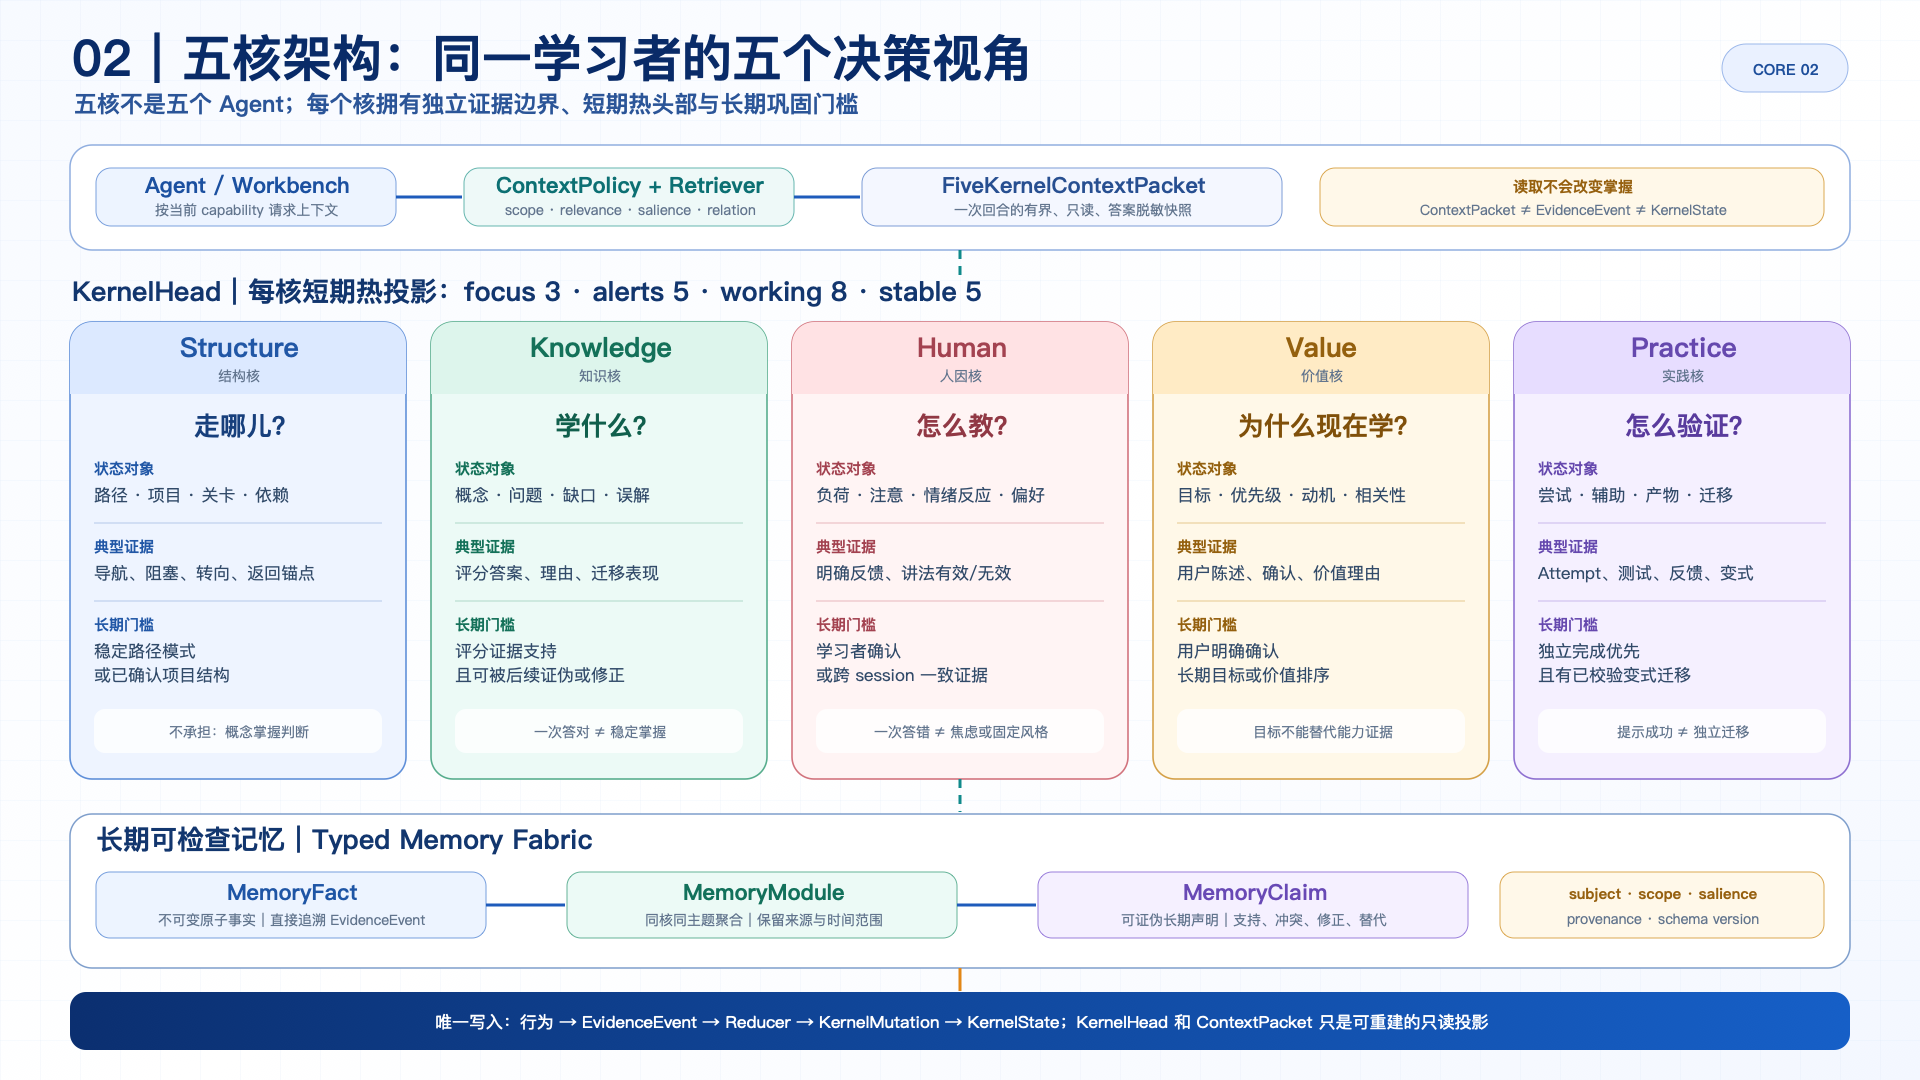
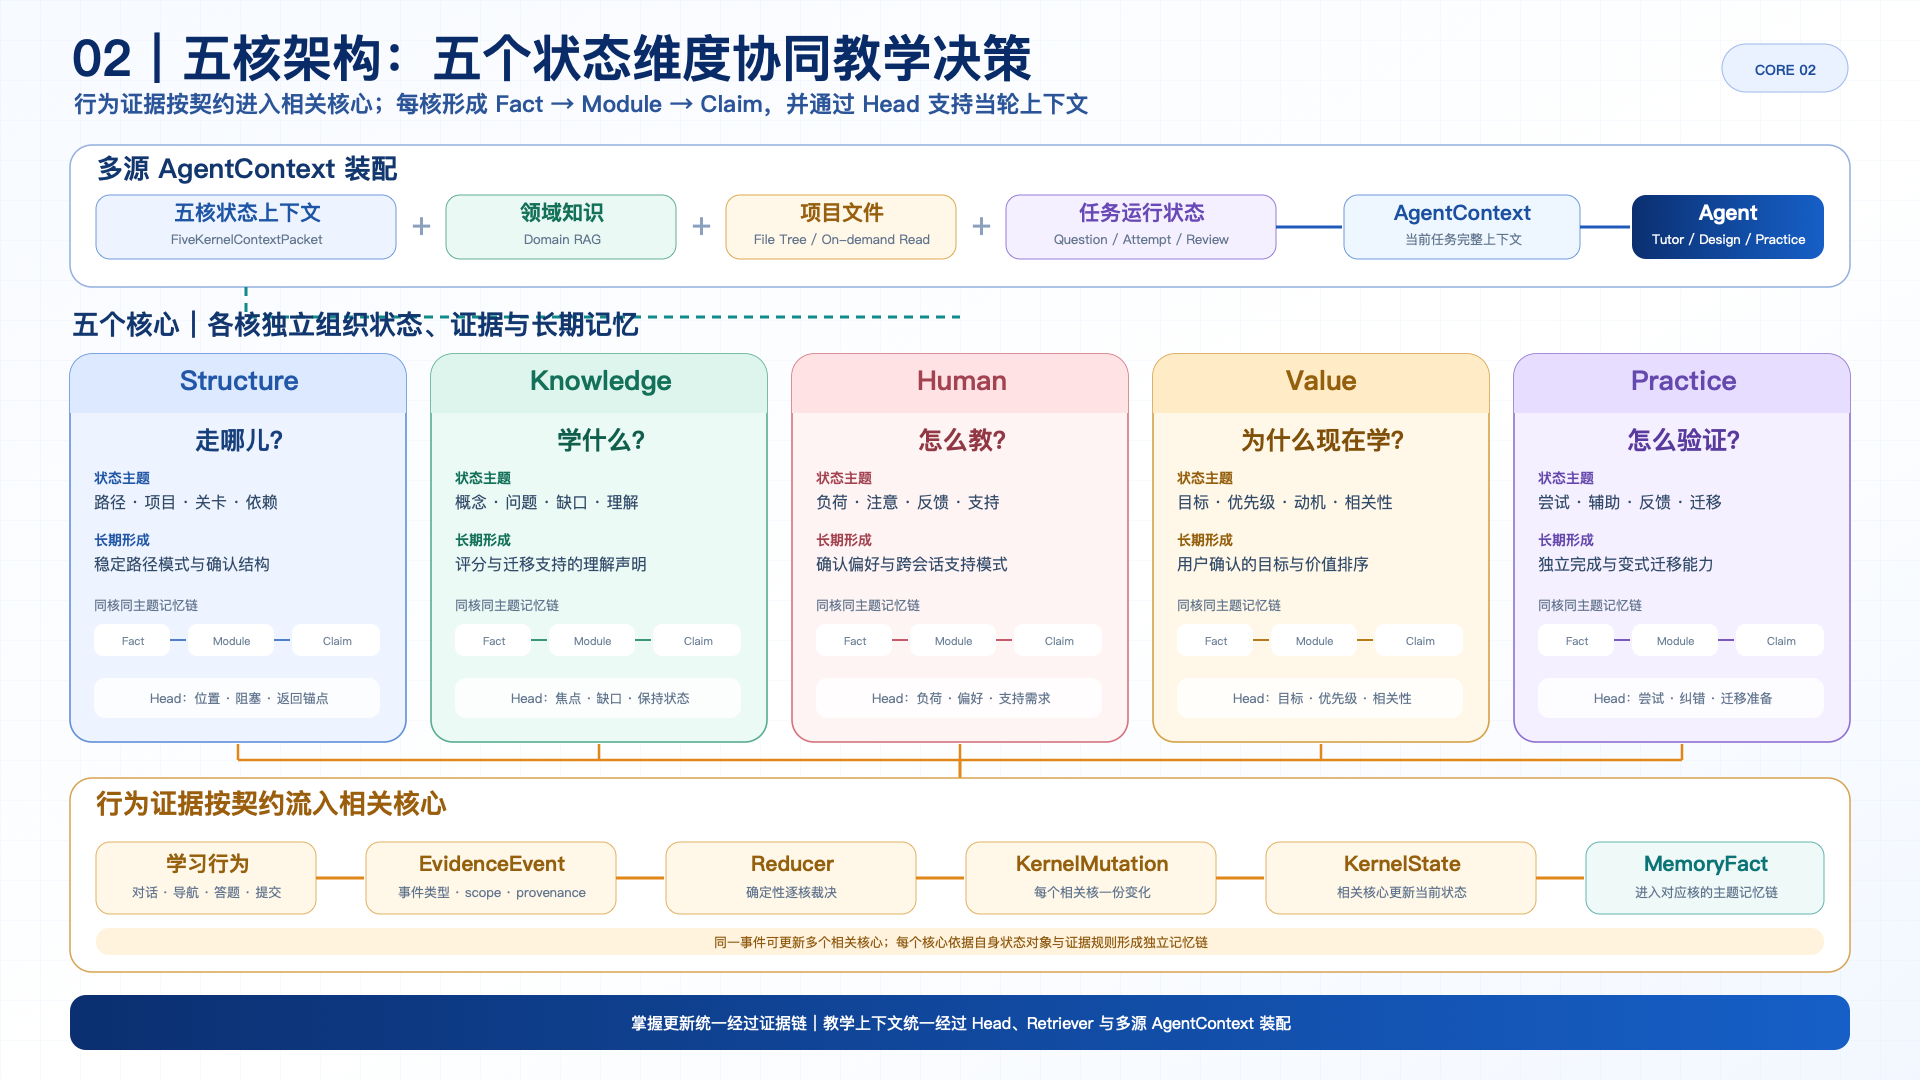
docs: clarify five-kernel reporting diagrams

diff --git a/docs/REPORTING_FIGURES.md b/docs/REPORTING_FIGURES.md
@@ -14,21 +14,21 @@
 ![五核架构](assets/report-02-five-kernel-architecture.png)
 
 - 主旨：五核分别回答走哪儿、学什么、怎么教、为什么学、怎么验证。
-- 汇报重点：每核拥有独立证据边界与长期巩固门槛，五核不是五个 Agent。
+- 汇报重点：五核作为五个状态维度，各自形成 Fact → Module → Claim，并通过 Head 参与多源 AgentContext 装配。
 
 ## 03 五核状态流转八步
 
 ![五核状态流转](assets/report-03-five-kernel-state-flow.png)
 
-- 主旨：行为证据如何成为事实、长期声明，再被装配为下一轮只读上下文。
-- 汇报重点：步骤 1–5 是事实链，步骤 6–8 是可重建投影和只读消费。
+- 主旨：行为证据如何分配到相关核心、形成主题与长期声明，并装配为下一轮教学上下文。
+- 汇报重点：步骤 1–2 完成证据标准化与分核，3–4 更新状态与事实，5–6 巩固主题记忆，7–8 完成检索与多源装配。
 
 ## 04 错题闭环案例
 
 ![错题闭环案例](assets/report-04-wrong-answer-case.png)
 
 - 主旨：`safe_average([])` 错题怎样触发五核归约、纠错、变式、间隔复习和长期声明。
-- 汇报重点：错误历史不会删除；稳定掌握至少需要间隔独立成功和变式迁移证据。
+- 汇报重点：错误历史持续保留；稳定掌握由间隔独立成功和变式迁移证据共同支持。
 
 ## 口头汇报顺序
 
